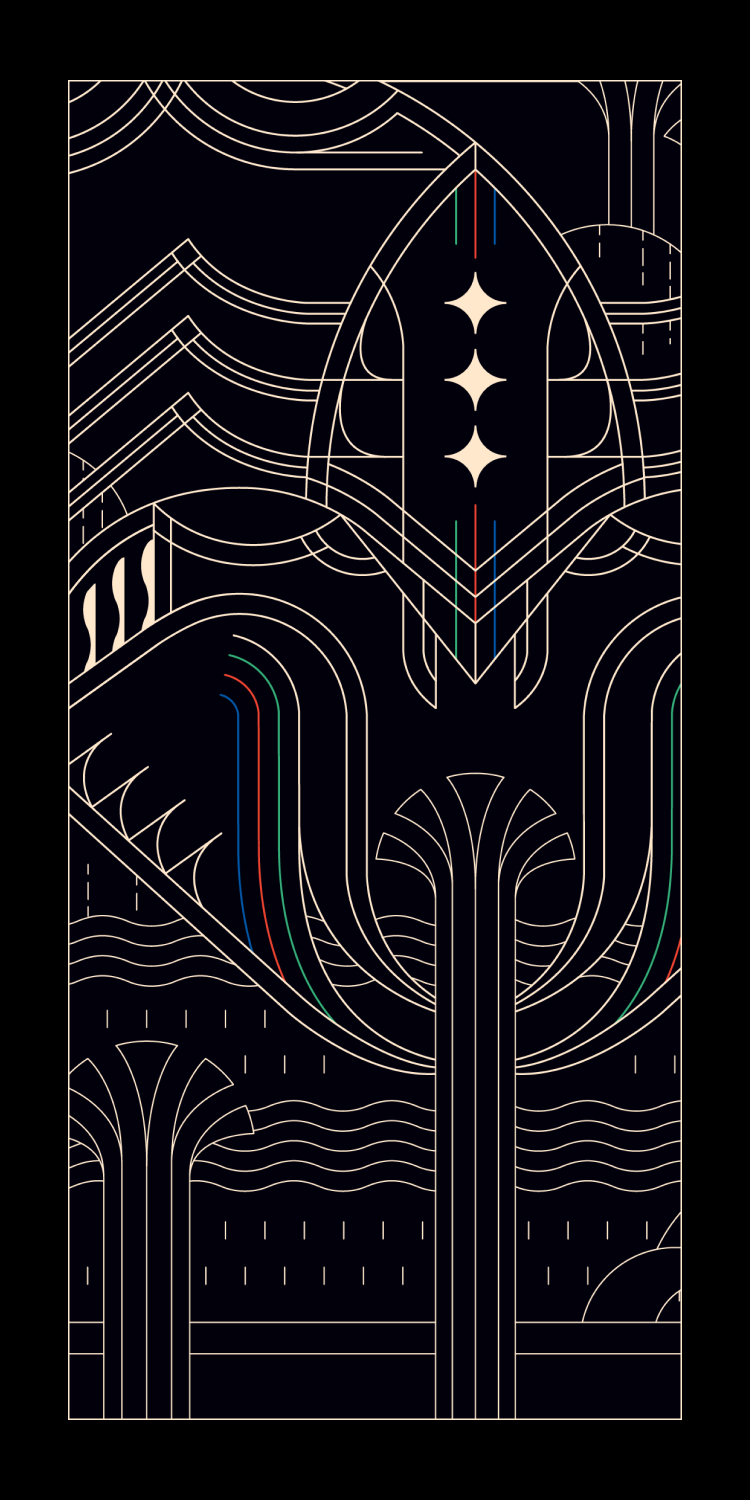
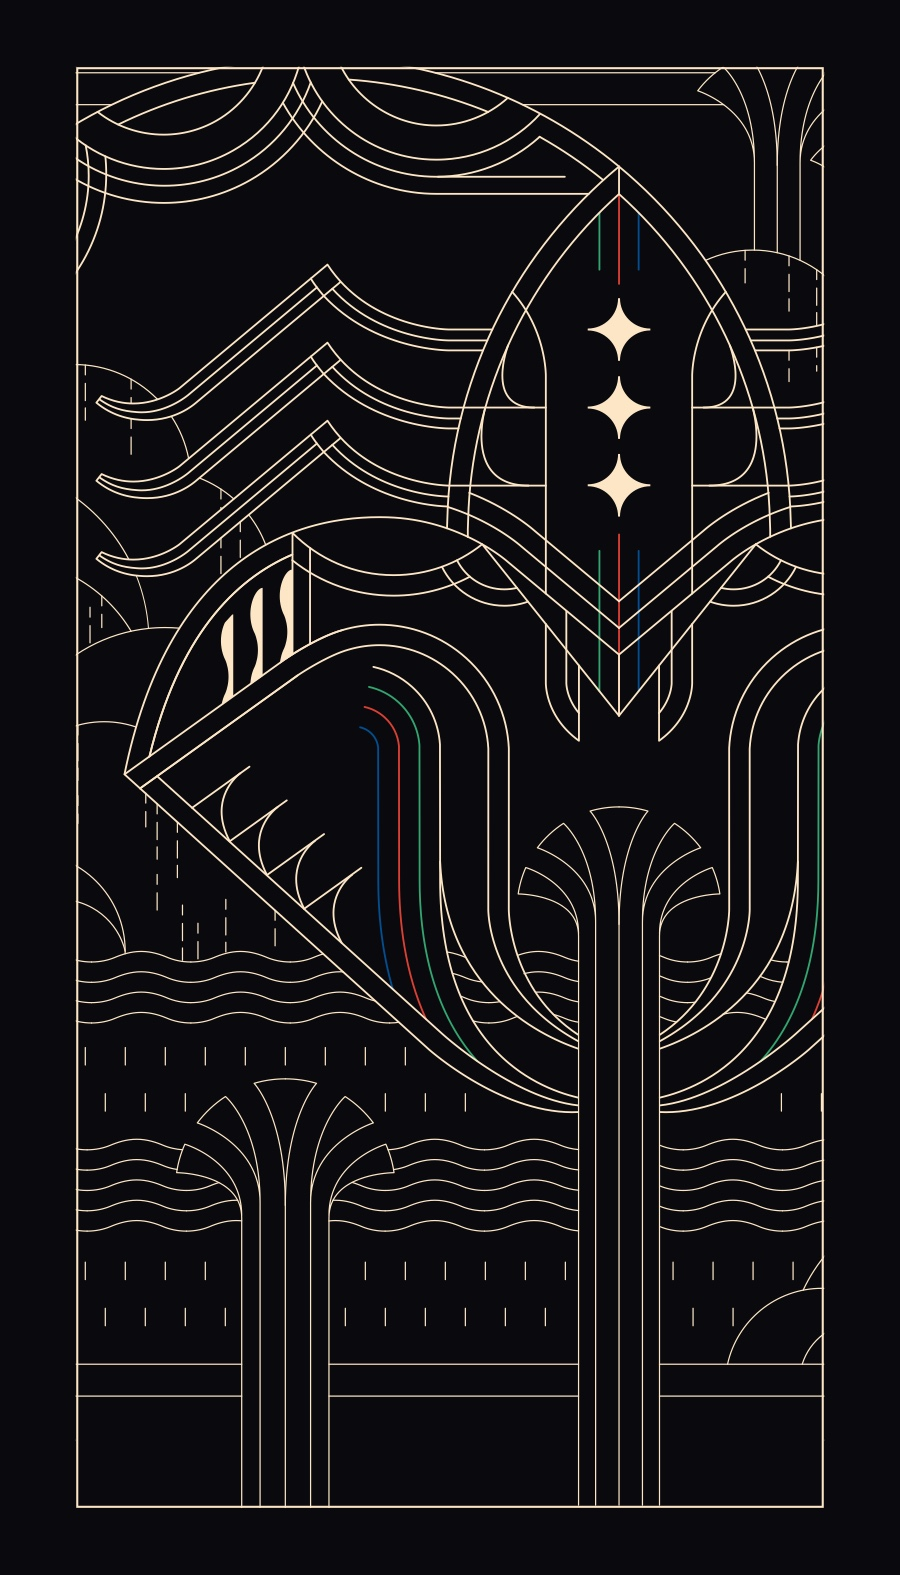
Update images

Changed region(s): [[0.0613, 0.0307, 0.92, 0.9813]]

diff --git a/src/html/birthdate-cart-with-back.html b/src/html/birthdate-cart-with-back.html
@@ -11,13 +11,13 @@
 			width: fit-content;
 			position: relative;
 			margin: 0;
-			background-color: #FCE4C5;
+			/* background-color: #FCE4C5; */
 		}
 
 		body,
 		img {
 			width: 452px;
-			max-height: 894px;
+			max-height: 735px;
 		}
 
 		img {
@@ -26,11 +26,11 @@
 		}
 
 		.font-card {
-			top: -27px;
+			top: -12px;
 		}
 
 		.zodiac-image {
-			top: 871px;
+			top: 711px;
 		}
 
 		h1,
@@ -39,16 +39,16 @@
 		h4,
 		h5 {
 			text-align: center;
-			font-size: 28px;
+			font-size: 20px;
 			font-weight: normal;
 		}
 
 		h2 {
-			padding-top: 100px;
+			padding-top: 114px;
 		}
 
 		h3 {
-			height: 450px;
+			height: 316px;
 			display: flex;
 			align-items: center;
 			justify-content: center;
@@ -59,14 +59,16 @@
 		}
 
 		p {
+			word-break: break-word;
 			padding: 0 79px;
-			font-size: 30px;
+			font-size: 22px;
+			width: 452px;
 		}
 	</style>
 </head>
 
 <body>
-	<img class="font-card" src="https://birthdate-pdf-creator.herokuapp.com/birthdate-card-bg.jpeg" />
+	<img class="font-card" src="https://birthdate-pdf-creator.herokuapp.com/birthdate-card-bg.jpg" />
 	<h2>{{to}}</h2>
 	<h3>
 		<p>{{message}}</p>

diff --git a/src/html/birthdate-cart.html b/src/html/birthdate-cart.html
@@ -20,7 +20,7 @@
 
 		img {
 			position: absolute;
-			top: -27px;
+			top: -15px;
 			z-index: -1;
 		}
 
@@ -30,16 +30,16 @@
 		h4,
 		h5 {
 			text-align: center;
-			font-size: 28px;
+			font-size: 20px;
 			font-weight: normal;
 		}
 
 		h2 {
-			padding-top: 100px;
+			padding-top: 114px;
 		}
 
 		h3 {
-			height: 450px;
+			height: 316px;
 			display: flex;
 			align-items: center;
 			justify-content: center;
@@ -50,14 +50,15 @@
 		}
 
 		p {
+			word-break: break-word;
 			padding: 0 79px;
-			font-size: 30px;
+			font-size: 22px;
 		}
 	</style>
 </head>
 
 <body>
-	<img src="https://birthdate-pdf-creator.herokuapp.com/birthdate-card-bg.jpeg" />
+	<img src="https://birthdate-pdf-creator.herokuapp.com/birthdate-card-bg.jpg" />
 	<h2>{{to}}</h2>
 	<h3>
 		<p>{{message}}</p>

diff --git a/src/http/render-http.js b/src/http/render-http.js
@@ -65,7 +65,7 @@ const getRender = ex.createRoute(async (req, res) => {
     opts.viewport.height = 530;
 
     opts.pdf.width = 452;
-    opts.pdf.height = 895;
+    opts.pdf.height = 735;
   }
 
   assertOptionsAllowed(opts);
